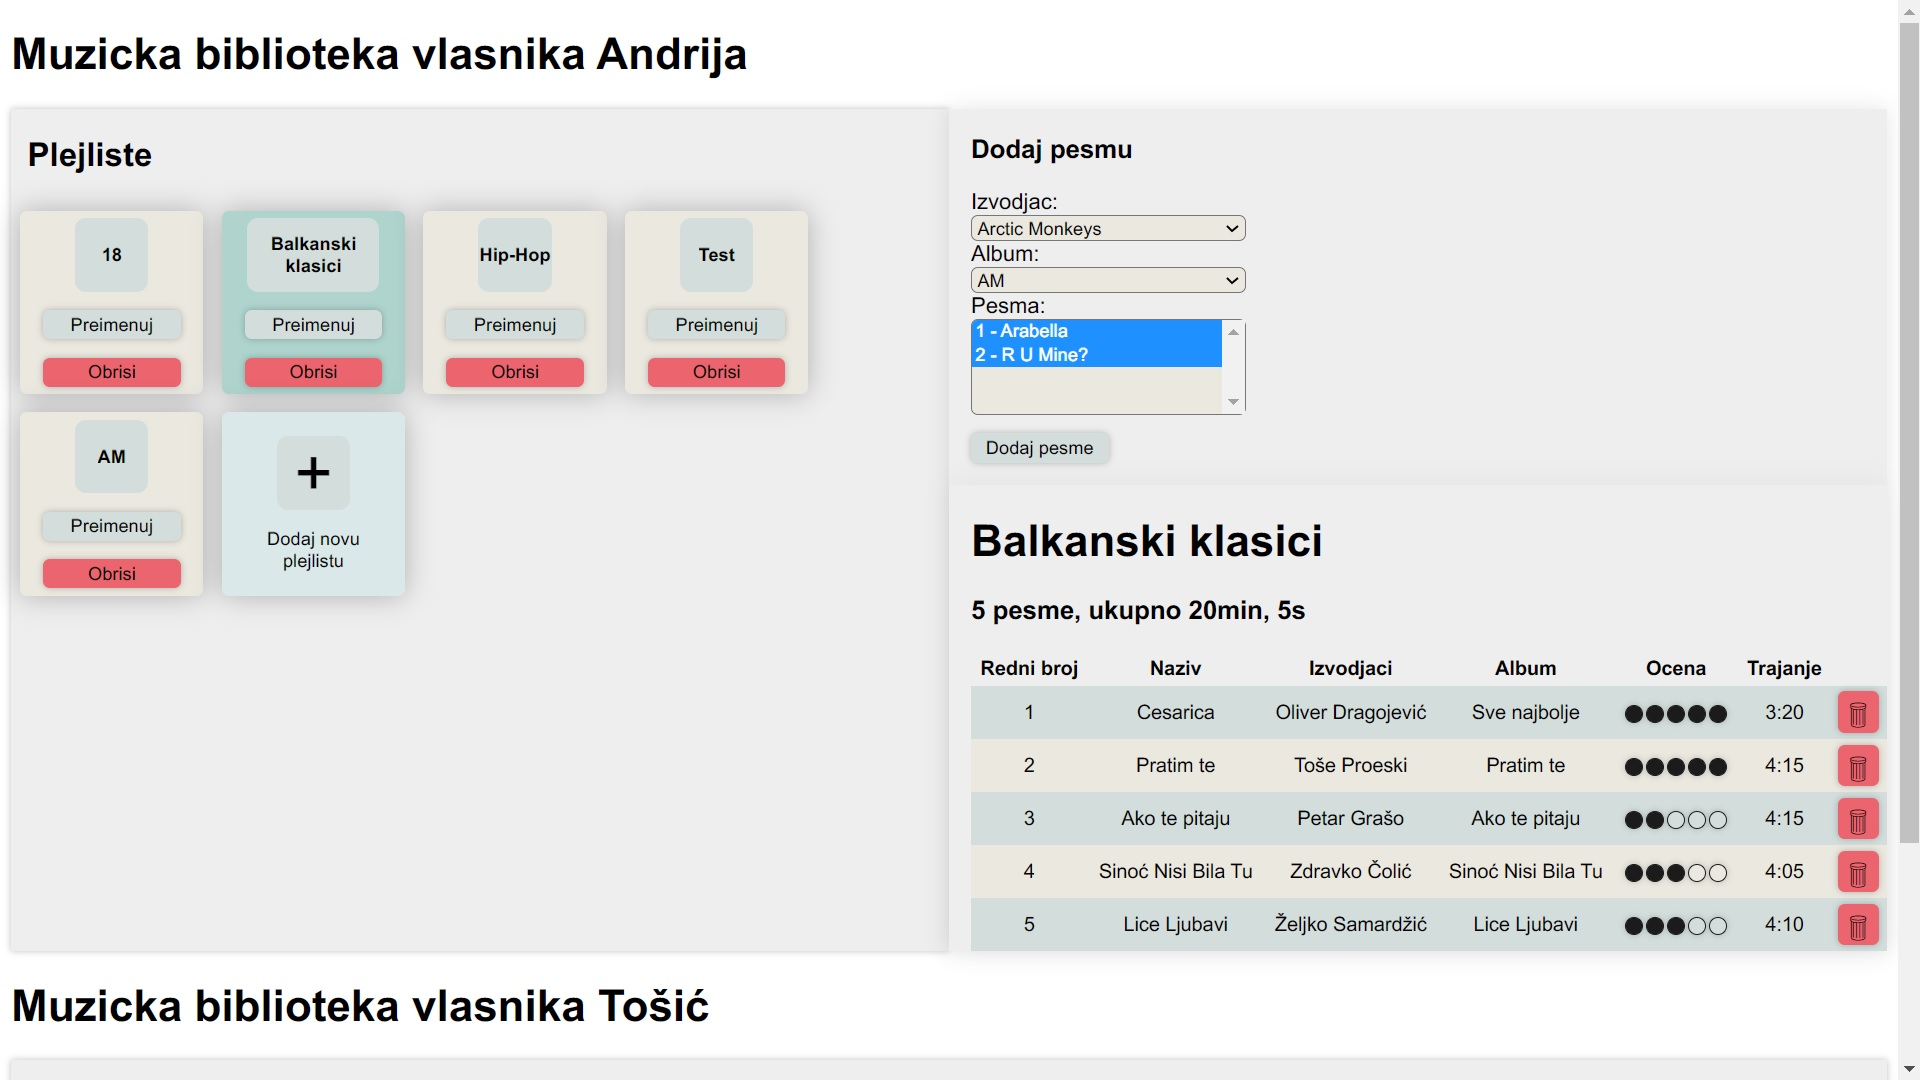
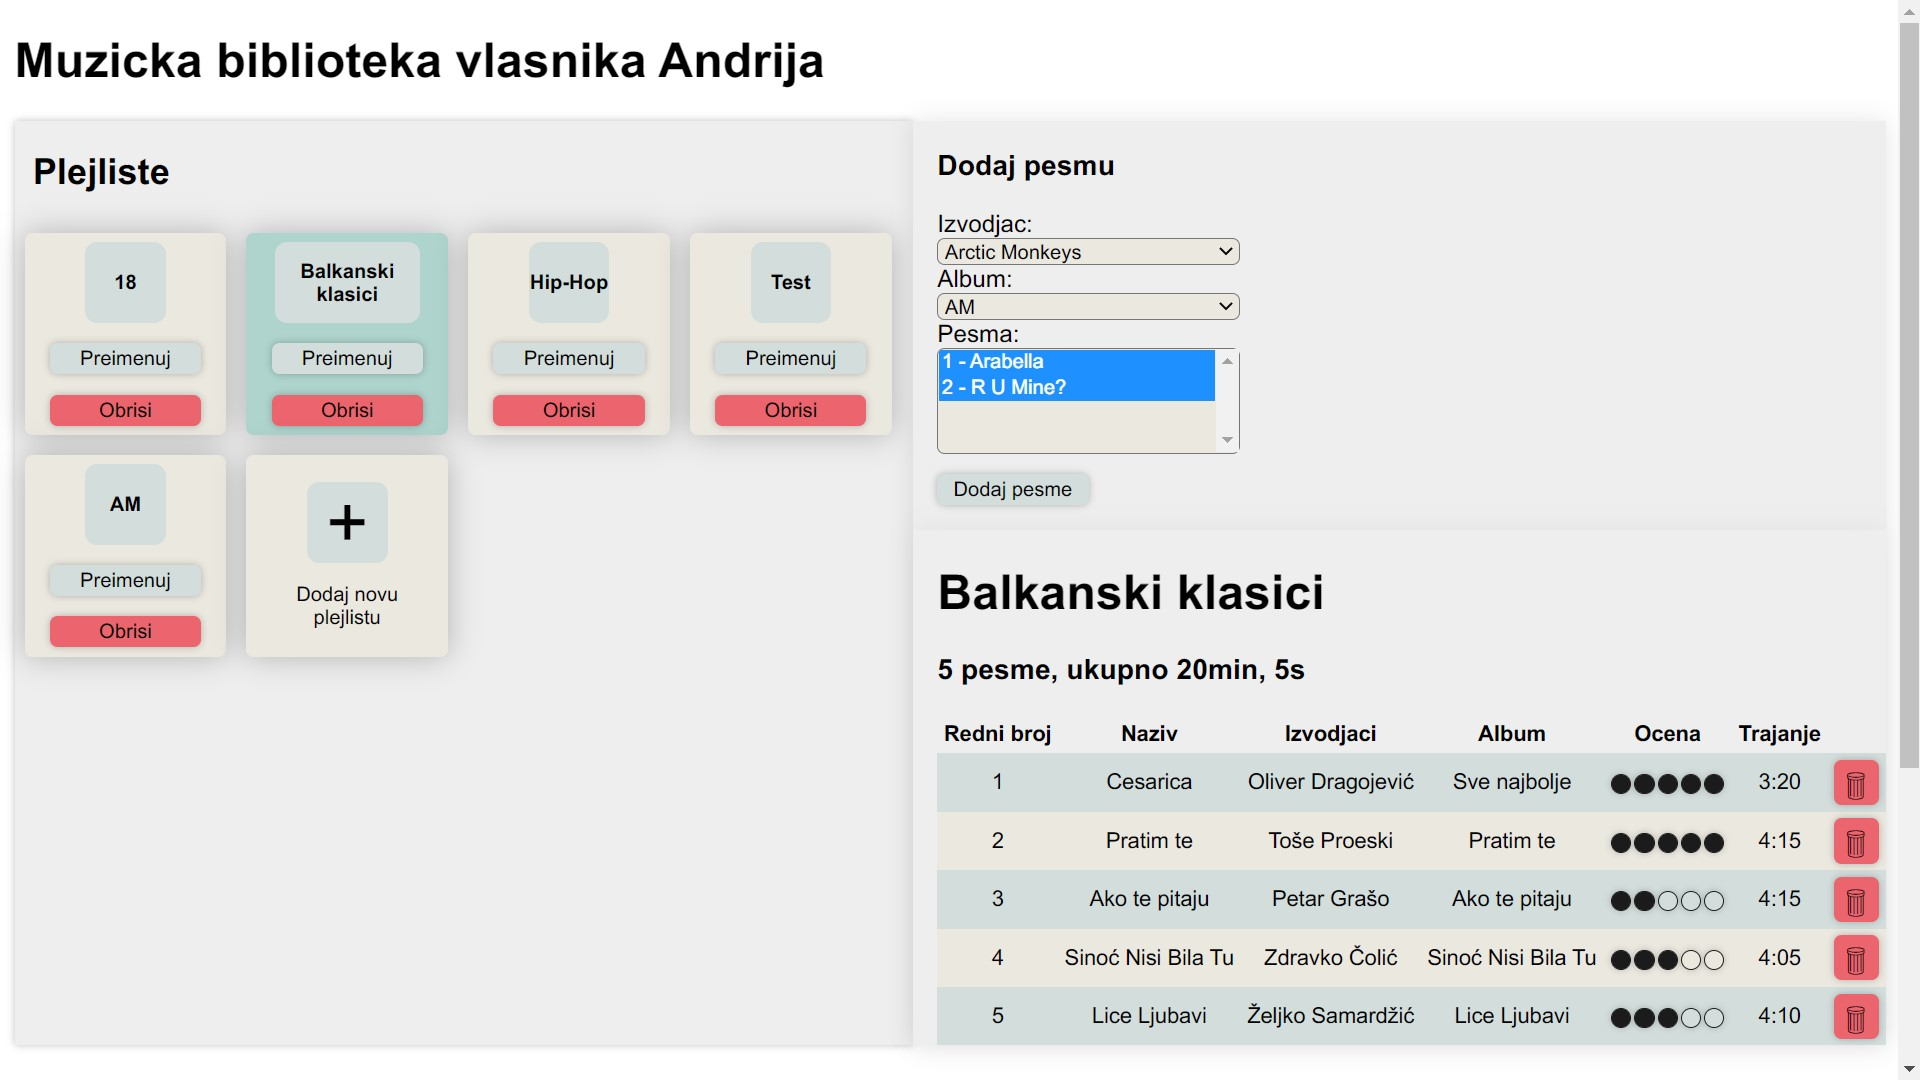
dokumentacija

diff --git a/Client/style.css b/Client/style.css
@@ -10,6 +10,10 @@
     --lighter: #aed4cd;
 }
 
+body {
+    padding-left: .1em;
+}
+
 select {
     border-radius: 5px; 
 }
@@ -80,6 +84,7 @@ button {
     align-content: center;
     flex: 0 0 auto;
     justify-content: center;
+    background-color:  var(--main);
     width: 10em;
     height: 10em;
     margin: .5em;
@@ -87,15 +92,6 @@ button {
     padding: 1em;
     box-shadow: 0px 0px 20px 0px rgba(0,0,0,0.25);
 }
-
-.playlistComponent {
-    background-color:  var(--main);
-}
-
-.addPlaylistComponent {
-    background-color: #dae8e9;
-}
-
 
 .selectedPlaylist {
     background-color: var(--lighter);

diff --git a/README.md b/README.md
@@ -2,6 +2,10 @@
 
 ## Relacioni dijagram
 <img src="erd.jpg" alt="Relacioni dijagram" height="400"/>
+    
+Horizontalni prikaz             |  Vertikalni prikaz
+:-------------------------:|:-------------------------:
+![](ss1.jpg)  |  ![](ss2.jpg)
 
 ## Opis aplikacije
 * Vlasnik muzičke biblioteke dobija grafički prikaz plejlisti koje trenutno ima u biblioteci.
